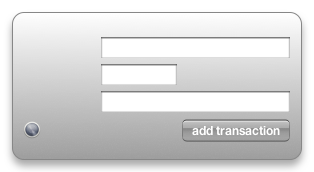
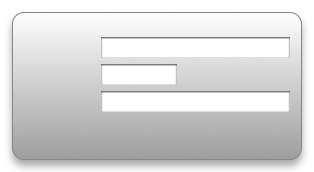
Upgraded to verson 2.0 of Dashcode Added keychain store for password, as contributed by Stan Lemon (thanks!)

Changed region(s): [[0.5732, 0.6686, 0.9459, 0.843], [0.0573, 0.6977, 0.1433, 0.814]]

diff --git a/project.wdgt/BuxferSubmit.html b/project.wdgt/BuxferSubmit.html
@@ -14,51 +14,35 @@
     <script type="text/javascript" src="Parts/Text.js" charset="utf-8"></script>
     <script type="text/javascript" src="Parts/InfoButton.js" charset="utf-8"></script>
     <script type="text/javascript" src="Parts/GlassButton.js" charset="utf-8"></script>
-	<script type="text/javascript" src="json2.js" charset="utf-8"></script>
+    <script type="text/javascript" src="json2.js" charset="utf-8"></script>
     <script type="text/javascript" src="BuxferSubmit.js" charset="utf-8"></script>
-<script type="text/javascript" src="Parts/Indicator.js" charset="utf-8"></script>
+    <script type="text/javascript" src="Parts/Indicator.js" charset="utf-8"></script>
 </head>
 <body onload="load();">
     <div id="front">
-        <img id="frontImg" src="Images/front.png" alt="" apple-locked="true" apple-part="com.apple.Dashcode.part.frontimage" apple-style="image-theme: 1; image-shape: 3; image-opacity: 1.00; image-top-color: 1.0000,1.0000,1.0000; image-bottom-color: 0.6154,0.6154,0.6154; image-radius: 12,12,12,12; image-border: 1; image-border-color: 0.5294,0.5294,0.5294; image-border-width: 1; shine-on: 0; shine-strength: 0.90; shine-alpha-level: 0.67; shine-height: 0.50; glass-arc-height: 0.06; shadow-include-shadow: 1; shadow-blur: 9.00; shadow-offset: -1.00,-6.00; shadow-color: 0.0000,0.0000,0.0000,0.3333;">
-        <div class="apple-no-children" id="info" apple-part="com.apple.Dashcode.part.infobutton" apple-default-image-visibility="hidden"></div>
-        
-    <input type="text" name="" value="" class="apple-textfield apple-no-children" apple-part="com.apple.Dashcode.part.textfield" id="descriptionField" apple-group="textfield">
-
-    <input type="text" name="" value="" class="apple-textfield apple-no-children" apple-part="com.apple.Dashcode.part.textfield" id="amountField" apple-group="textfield1">
-    
-    <input type="text" name="" value="" class="apple-textfield apple-no-children" apple-part="com.apple.Dashcode.part.textfield" id="tagsField" apple-group="textfield">
-    
-    <div apple-part="com.apple.Dashcode.part.glassbutton" class="apple-no-children" id="submitButton" apple-group="glassbutton"></div>
-    
-    <div apple-part="com.apple.Dashcode.part.text" class="apple-text apple-no-children" apple-default-image-visibility="hidden" apple-text-overflow="ellipsis" id="DescriptionText" apple-group="text"></div>
-    <div apple-part="com.apple.Dashcode.part.text" class="apple-text apple-no-children" apple-default-image-visibility="hidden" apple-text-overflow="ellipsis" id="AmountText" apple-group="text1"></div>
-    
- 
-    <div apple-part="com.apple.Dashcode.part.indicator" class="apple-no-children" id="latestStatusIndicator" apple-group="indicator" apple-locked="false"></div>
-    
-    
-
-    <div apple-part="com.apple.Dashcode.part.text" class="apple-text apple-no-children" apple-default-image-visibility="hidden" apple-text-overflow="ellipsis" id="text3" apple-group="text3"></div>
-    <div apple-part="com.apple.Dashcode.part.text" class="apple-text apple-no-children" apple-default-image-visibility="hidden" apple-text-overflow="ellipsis" id="statusText" apple-group="text2" apple-locked="false"></div>
-    <div apple-part="com.apple.Dashcode.part.text" class="apple-text apple-no-children" apple-default-image-visibility="hidden" apple-text-overflow="ellipsis" id="text4" apple-group="text4"></div>
+        <img id="frontImg" src="Images/front.png" alt="">
+        <div id="info"></div>
+        <input type="text" name="" value="" id="descriptionField">
+        <input type="text" name="" value="" id="amountField">
+        <input type="text" name="" value="" id="tagsField">
+        <div id="submitButton"></div>
+        <div apple-text-overflow="ellipsis" id="DescriptionText"></div>
+        <div apple-text-overflow="ellipsis" id="AmountText"></div>
+        <div id="latestStatusIndicator"></div>
+        <div apple-text-overflow="ellipsis" id="text3"></div>
+        <div apple-text-overflow="ellipsis" id="statusText"></div>
+        <div apple-text-overflow="ellipsis" id="text4"></div>
     </div>
     <div id="back">
-       <img id="backImg" src="Images/back.png" alt="" apple-locked="true" apple-part="com.apple.Dashcode.part.backimage" apple-style=" image-radius: 12,12,12,12; image-border: 1; image-border-color: 0.1500,0.1500,0.1500; image-border-width: 3; shadow-include-shadow: 1; shadow-blur: 9.00; shadow-offset: -1.00,-6.00; shadow-color: 0.0000,0.0000,0.0000,0.3333;">
-        
-    
-    <input type="text" name="" value="" class="apple-textfield apple-no-children" apple-part="com.apple.Dashcode.part.textfield" id="usernameField" apple-group="textfield1">
-    <input type="password" name="" value="" class="apple-textfield apple-no-children" apple-part="com.apple.Dashcode.part.textfield" id="passwordField" apple-group="textfield" onblur="passwordField_Blur(event)">
-    
-    <div id="done" class="apple-no-children" apple-part="com.apple.Dashcode.part.glassbutton"></div>
-
-    <div apple-part="com.apple.Dashcode.part.text" class="apple-text apple-no-children" apple-default-image-visibility="hidden" apple-text-overflow="ellipsis" id="text" apple-group="text"></div>
-    <div apple-part="com.apple.Dashcode.part.text" class="apple-text apple-no-children" apple-default-image-visibility="hidden" apple-text-overflow="ellipsis" id="text1" apple-group="text1"></div>
-    
-    <select apple-part="com.apple.Dashcode.part.backpopupbutton" id="selectedAccount" apple-group="popup" disabled="disabled">
-    </select>
-    <div apple-part="com.apple.Dashcode.part.text" class="apple-text apple-no-children" apple-default-image-visibility="hidden" apple-text-overflow="ellipsis" id="text2" apple-group="text2"></div>
+        <img id="backImg" src="Images/back.png" alt="">
+        <input type="text" name="" value="" id="usernameField">
+        <input type="password" name="" value="" id="passwordField" onblur="passwordField_Blur(event)">
+        <div id="done"></div>
+        <div apple-text-overflow="ellipsis" id="text"></div>
+        <div apple-text-overflow="ellipsis" id="text1"></div>
+        <select id="selectedAccount" disabled="disabled">
+        </select>
+        <div apple-text-overflow="ellipsis" id="text2"></div>
     </div>
-
 </body>
 </html>

diff --git a/project.wdgt/BuxferSubmit.js b/project.wdgt/BuxferSubmit.js
@@ -14,6 +14,7 @@ var buxferUrl = "https://www.buxfer.com/api/";
 var possibleStatus = { UNKNOWN : 0, OK : 5, WARNING : 12, ERROR : 15 };
 var xmlHttpRequestTimeout = 30000;
 
+KeyChainAccess.setAppName("Buxfer Widget");
 
 function isFirstTime(){
     if(widget.preferenceForKey(createInstancePreferenceKey("alreadyConfigured")) || false){
@@ -46,7 +47,7 @@ function loginUser(successCallback)
     setStatus("Logging in...", possibleStatus.WARNING);
 
     var username = widget.preferenceForKey(createInstancePreferenceKey("username"));
-    var password = widget.preferenceForKey(createInstancePreferenceKey("password"));
+    var password = KeyChainAccess.loadPassword(username); 
     var loginurl = buxferUrl + "login.json?userid="+encodeURIComponent(username)+"&password="+encodeURIComponent(password);
     
     var xmlRequest = new XMLHttpRequest();
@@ -71,8 +72,6 @@ function loginUser(successCallback)
         }
     };	
     
-    // XMLHttpRequest setup code
-
     xmlRequest.onload = onloadHandler;
     xmlRequest.open("GET", loginurl);
     xmlRequest.setRequestHeader("Cache-Control", "no-cache");
@@ -184,7 +183,6 @@ function addTransaction(description, amount, tags, account)
 //
 function load()
 {
-    setupParts();
     if(isFirstTime()){
         showBack(null);
     }else{
@@ -201,7 +199,7 @@ function remove()
     // Stop any timers to prevent CPU usage
     // Remove any preferences as needed
     widget.setPreferenceForKey(null, createInstancePreferenceKey("username"));
-    widget.setPreferenceForKey(null, createInstancePreferenceKey("password"));
+    //widget.setPreferenceForKey(null, createInstancePreferenceKey("password"));
     widget.setPreferenceForKey(null, createInstancePreferenceKey("accountId"));
     widget.setPreferenceForKey(null, createInstancePreferenceKey("accountName"));
     widget.setPreferenceForKey(null, createInstancePreferenceKey("alreadyConfigured"));
@@ -276,19 +274,22 @@ function selectCorrectAccount(){
 
 function loadPreferences()
 {
-    passwordField.value = widget.preferenceForKey(createInstancePreferenceKey("password")) || "";
+    //passwordField.value = createInstancePreferenceKey("username") || "";
     usernameField.value = widget.preferenceForKey(createInstancePreferenceKey("username")) || "";
-    
+    passwordField.value = KeyChainAccess.loadPassword(usernameField.value)
+
     refreshAccountsList(selectCorrectAccount);
 }
 
 function savePreferences()
 {
-    var preferenceValue = passwordField.value;
-    widget.setPreferenceForKey(preferenceValue, createInstancePreferenceKey("password"));
+    //var preferenceValue = passwordField.value;
+    //widget.setPreferenceForKey(preferenceValue, createInstancePreferenceKey("password"));
     
-    preferenceValue = usernameField.value;
+    var preferenceValue = usernameField.value;
     widget.setPreferenceForKey(preferenceValue, createInstancePreferenceKey("username"));
+    
+    KeyChainAccess.savePassword(usernameField.value, passwordField.value);
     
     if(selectedAccount.selectedIndex == -1){
         widget.setPreferenceForKey(null, createInstancePreferenceKey("accountId"));

diff --git a/project.wdgt/Parts/setup.js b/project.wdgt/Parts/setup.js
@@ -1,19 +1,20 @@
-// This file was generated by Dashcode from Apple Inc.
-// DO NOT EDIT - This file is maintained automatically by Dashcode.
-function setupParts() {
-    if (setupParts.called) return;
-    setupParts.called = true;
-    CreateInfoButton('info', { frontID: 'front', foregroundStyle: 'white', backgroundStyle: 'black', onclick: 'showBack' });
-    CreateGlassButton('done', { text: 'Done', onclick: 'showFront' });
-    CreateText('DescriptionText', { text: 'Description' });
-    CreateText('AmountText', { text: 'Amount' });
-    CreateGlassButton('submitButton', { onclick: 'addTransaction_Click', text: 'add transaction' });
-    CreateText('text', { text: 'Username' });
-    CreateText('text1', { text: 'Password' });
-    CreateIndicator('latestStatusIndicator', { onValue: 1, criticalValue: 15, warningValue: 10 });
-    CreateText('text2', { text: 'Selected Account' });
-    CreateText('text3', { text: 'Tags' });
-    CreateText('statusText', { text: 'status text' });
-    CreateText('text4', { text: 'Add a transaction to buxfer' });
-}
-window.addEventListener('load', setupParts, false);
+/* 
+ This file was generated by Dashcode and is covered by the 
+ license.txt included in the project.  You may edit this file, 
+ however it is recommended to first turn off the Dashcode 
+ code generator otherwise the changes will be lost.
+ */
+var dashcodePartSpecs = {
+    "AmountText": { "creationFunction": "CreateText", "text": "Amount" },
+    "DescriptionText": { "creationFunction": "CreateText", "text": "Description" },
+    "done": { "creationFunction": "CreateGlassButton", "onclick": "showFront", "text": "Done" },
+    "info": { "backgroundStyle": "black", "creationFunction": "CreateInfoButton", "foregroundStyle": "white", "frontID": "front", "onclick": "showBack" },
+    "latestStatusIndicator": { "creationFunction": "CreateIndicator", "criticalValue": 15, "onValue": 1, "warningValue": 10 },
+    "statusText": { "creationFunction": "CreateText", "text": "status text" },
+    "submitButton": { "creationFunction": "CreateGlassButton", "onclick": "addTransaction_Click", "text": "add transaction" },
+    "text": { "creationFunction": "CreateText", "text": "Username" },
+    "text1": { "creationFunction": "CreateText", "text": "Password" },
+    "text2": { "creationFunction": "CreateText", "text": "Selected Account" },
+    "text3": { "creationFunction": "CreateText", "text": "Tags" },
+    "text4": { "creationFunction": "CreateText", "text": "Add a transaction to buxfer" }
+};

diff --git a/project.wdgt/Parts/utilities.js b/project.wdgt/Parts/utilities.js
@@ -1,5 +1,39 @@
 // This file was generated by Dashcode from Apple Inc.
 // DO NOT EDIT - This file is maintained by Dashcode.
+/* 
+ This file was generated by Dashcode and is covered by the 
+ license.txt included in the project.  You may edit this file, 
+ however it is recommended to first turn off the Dashcode 
+ code generator otherwise the changes will be lost.
+ */
+
+if (!window.dashcode) {
+    dashcode = new Object();
+}
+
+//
+// setupParts(string)
+// Uses the dashcodePartsSpec dictionary, declared in the automatically generated file setup.js to instantiate 
+// all the parts in the project.
+//
+dashcode.setupParts = function () {
+    if (dashcode.setupParts.called) return;
+    dashcode.setupParts.called = true;
+    var partsToGetFinishLoading = [];
+    for (var id in dashcodePartSpecs) {
+        var specDict = dashcodePartSpecs[id];
+        var createFunc = window[specDict.creationFunction];
+        var object = createFunc(id, specDict);
+        if (object && object.finishLoading) {
+            partsToGetFinishLoading[partsToGetFinishLoading.length] = object;
+        }
+    }
+    // Call finishedLoading callbacks.
+    for (var i=0; i<partsToGetFinishLoading.length; i++) {
+        partsToGetFinishLoading[i].finishLoading();
+    }
+}
+window.addEventListener('load', dashcode.setupParts, false);
 
 //
 // getLocalizedString(string)

diff --git a/project.wdgt/en.lproj/localizedStrings.js b/project.wdgt/en.lproj/localizedStrings.js
@@ -1,3 +1,9 @@
-var localizedStrings = new Object;
-
-localizedStrings["Done"] = "Done";
+/* 
+ This file was generated by Dashcode and is covered by the 
+ license.txt included in the project.  You may edit this file, 
+ however it is recommended to first turn off the Dashcode 
+ code generator otherwise the changes will be lost.
+ */
+var localizedStrings = {
+    "Done": "Done"
+};

diff --git a/project.wdgt/BuxferSubmit.css b/project.wdgt/BuxferSubmit.css
@@ -176,11 +176,12 @@ body {
 #text3 {
     position: absolute;
     color: black;
-    font-family: HelveticaNeue;
     text-overflow: ellipsis;
     overflow: hidden;
     left: 69px;
     top: 94px;
+    font-style: italic;
+    font-family: 'Helvetica Neue';
     font-size: 10pt;
 }
 
